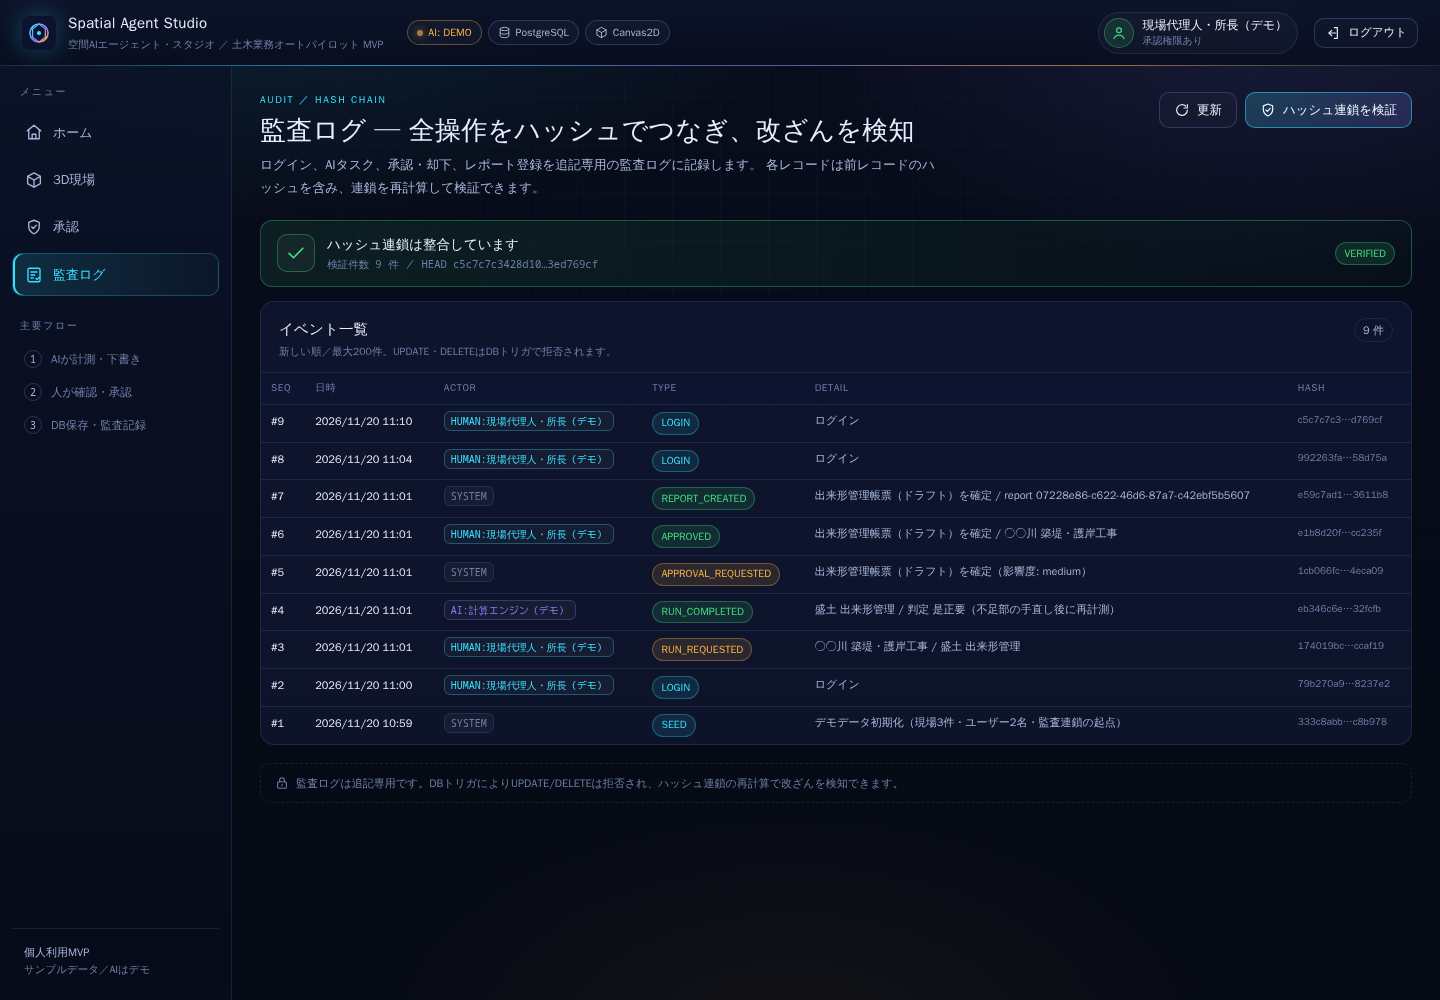
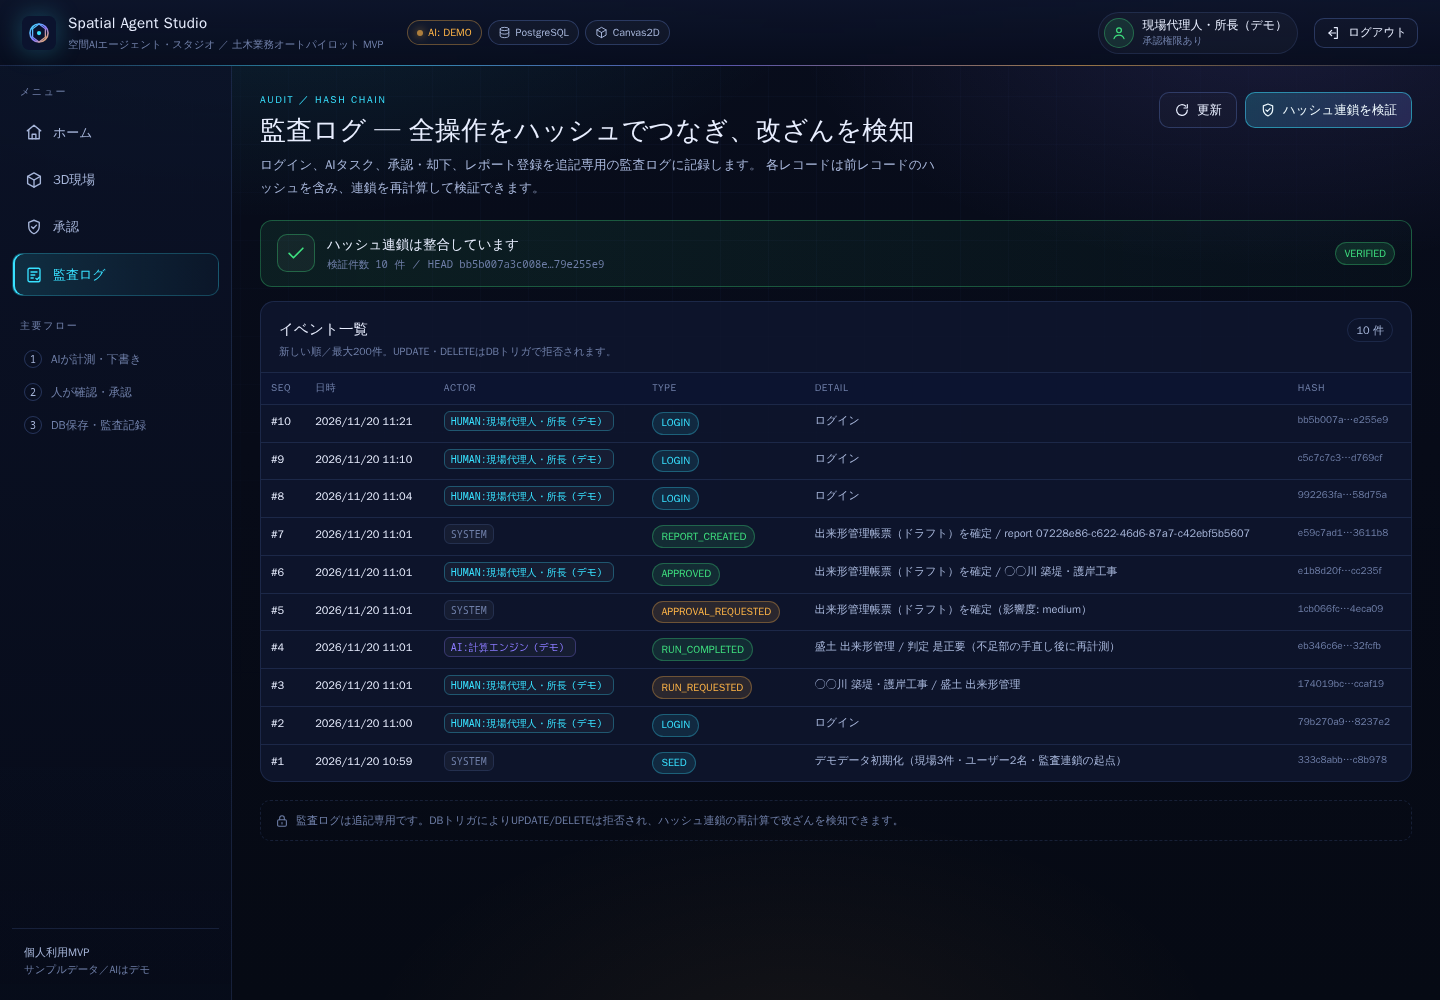
test: add manager safety-approval E2E and post-CORS preview smoke (#6)
- New E2E: manager approves a safety-clearance draft, report survives reload
- E2E suite now 4/4 (asbuilt, staff denial, safety approval, API error)
- Re-ran Cloudflare Preview smoke after the Pages-subdomain CORS fix
- Evidence: audit chain rows=10, health/CORS/login/3D/audit all PASS

diff --git a/docs/progress/evidence/preview-verification.md b/docs/progress/evidence/preview-verification.md
@@ -1,6 +1,6 @@
 # Cloudflare Preview 検証記録
 
-実施日時：2026-11-20 11:00〜11:10 JST（UTC 02:00〜02:10）
+実施日時：2026-11-20 11:00〜11:22 JST（UTC 02:00〜02:22）
 実施者：DeepSeek Harness 主エージェント（CTO権限委譲）
 対象コミット：`0134a1c63276cbd0f511377b87f874bbc4e76977`（PR #1 マージコミット）
 
@@ -25,7 +25,7 @@ curl -s https://sas-api.mirai-dx-platform.com/api/health
 ```
 
 ```json
-{"ok":true,"db":"up","version":"0.1.0","time":"2026-11-20T02:10:03.363Z","aiMode":"demo-deterministic"}
+{"ok":true,"db":"up","version":"0.1.0","time":"2026-11-20T02:21:30.462Z","aiMode":"demo-deterministic"}
 ```
 
 **結果：PASS**
@@ -70,22 +70,30 @@ Playwright（Chromium headless）で以下を実行。
 
 - 初回：`046f4340` デプロイ、API health 02:00:18Z、CORS 204、UIフロー成功、監査 rows=8。
 - マージ後：`0134a1c` から再ビルドして `45b9e8ff` に再配備。安定URLで再スモークし、監査 rows=9 を確認。
+- CORS修正後（PR #4 `ae2dfb5`）：APIを再起動し、`45b9e8ff` Originのプリフライトと再スモークを確認（監査 rows=10）。
 - **対象コミット `0134a1c` とデプロイの対応を確認済み。**
 
 ## 5. DB状態（Preview、マージ後スモーク時点）
 
 ```text
-users=2  sites=3  runs=1  approvals=1  reports=1  audit_events=9
+users=2  sites=3  runs=1  approvals=1  reports=1  audit_events=10
 approval: status=approved, verdict=是正要（不足部の手直し後に再計測）, decided_atあり
 site-a latest version: 2026-11-18 progress=1.000
 ```
 
-監査ログHEAD（seq 9）：
+監査ログHEAD（seq 10）：
 
 ```text
-seq=9  actor=HUMAN:現場代理人・所長（デモ）  type=LOGIN
[1 lines of base64/hex data omitted]
+seq=10  actor=HUMAN:現場代理人・所長（デモ）  type=LOGIN
[1 lines of base64/hex data omitted]
 ```
+
+## 5.1 CORS修正後の再スモーク
+
+- PR #4（`ae2dfb5`）で Cloudflare Pages のデプロイ別サブドメインをCORS許可。
+- Preview API（port 7450）を再起動し、`OPTIONS /api/bootstrap`（Origin=`https://45b9e8ff...`）が
+  `204` + `access-control-allow-origin: https://45b9e8ff.spatial-agent-studio-preview.pages.dev` を返すことを確認。
+- `node scripts/preview-smoke.mjs` を再実行し、`PREVIEW SMOKE: PASS`（API health / CORS / ログイン / 3D / 監査VERIFIED、監査 rows=10）。
 
 ## 6. 監査・権限の確認
 

diff --git a/docs/progress/progress.md b/docs/progress/progress.md
@@ -1,6 +1,6 @@
 # 進捗・判断・証跡 — Spatial Agent Studio MVP
 
-最終更新：2026-11-20 11:16 JST
+最終更新：2026-11-20 11:22 JST
 
 ## 1. 現在の状態
 
@@ -69,7 +69,7 @@
 | Lint | `pnpm run lint` | **PASS**（exit 0） |
 | Unit | `pnpm run test:unit` | **PASS 7/7** |
 | API Integration | `pnpm run test:api` | **PASS 8/8** |
-| E2E | `pnpm run test:e2e` | **PASS 3/3**（manager / staff / error） |
+| E2E | `pnpm run test:e2e` | **PASS 4/4**（manager出来形 / staff / manager安全離隔 / error） |
 | Build | `pnpm run build` | **PASS**（Vite 60 modules） |
 | Secret scan | `pnpm run secret-scan` | **PASS**（44 files） |
 | DB migrate/seed/verify | `db:migrate` / `db:seed` / `db:verify` | **PASS**（dev/test/preview） |
@@ -105,8 +105,9 @@
 - main HEAD（PR #4時点）：`ae2dfb5`（APIのCORS修正を含む。WebUI配備は`0134a1c`）
 - main保護：ruleset `main-protection`（PR必須 / deletion / non_fast_forward）
 - CI：`.github/workflows/**` はハーネスポリシーで追加不可。`templates/ci/ci.yml` を人間が適用する。
-- ローカル検証：typecheck / lint / unit 7 / API 8 / E2E 3 / build / secret-scan すべてPASS。
+- ローカル検証：typecheck / lint / unit 7 / API 8 / E2E 4 / build / secret-scan すべてPASS。
 - Preview再配備：`0134a1c` から再ビルドし `45b9e8ff` に配備、安定URLで再スモークPASS。
+- CORS修正後：API再起動＋`45b9e8ff` Originのプリフライト確認、再スモークPASS（監査10件）。
 - CORS追補：PR #4で `<hash>.spatial-agent-studio-preview.pages.dev` を許可。API再起動後に
   `45b9e8ff` Originのプリフライトが204 + allow-originになることを確認。
 
